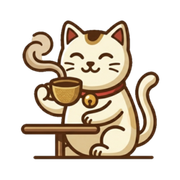
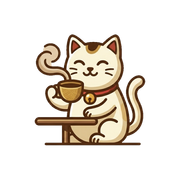
Fix layout

diff --git a/src/lib/components/DecryptForm.svelte b/src/lib/components/DecryptForm.svelte
@@ -75,23 +75,29 @@
         if (e.key === 'Enter') handleDecrypt();
       }}
     />
-  </div>
 
-  <button class="btn-primary" onclick={handleDecrypt} disabled={$clipState.loading || !password}>
-    {#if $clipState.loading}
-      <svg class="spinner" viewBox="0 0 24 24" fill="none" stroke="currentColor" stroke-width="2.5">
-        <circle cx="12" cy="12" r="10" stroke-dasharray="60" stroke-dashoffset="15" />
-      </svg>
-      Decrypting...
-    {:else}
-      Decrypt
-    {/if}
-  </button>
+    <button class="btn-primary" onclick={handleDecrypt} disabled={$clipState.loading || !password}>
+      {#if $clipState.loading}
+        <svg
+          class="spinner"
+          viewBox="0 0 24 24"
+          fill="none"
+          stroke="currentColor"
+          stroke-width="2.5"
+        >
+          <circle cx="12" cy="12" r="10" stroke-dasharray="60" stroke-dashoffset="15" />
+        </svg>
+        Decrypting...
+      {:else}
+        Decrypt
+      {/if}
+    </button>
+  </div>
 </div>
 
 <style>
   .card {
-    padding: var(--space-xl);
+    padding: var(--space-lg);
     text-align: center;
   }
 
@@ -99,7 +105,7 @@
     width: 32px;
     height: 32px;
     stroke: var(--accent);
-    margin-bottom: var(--space-md);
+    margin-bottom: var(--space-sm);
   }
 
   .error-banner {
@@ -109,9 +115,16 @@
 
   .form-group {
     padding: 0;
+    gap: var(--space-sm);
+    label {
+      margin: 0;
+    }
+  }
+
+  .input {
+    margin-bottom: var(--space-md);
   }
 
   .btn-primary {
-    width: 100%;
   }
 </style>

diff --git a/src/lib/components/IdleView.svelte b/src/lib/components/IdleView.svelte
@@ -69,7 +69,7 @@
     {/if}
     <div class="idle-actions">
       <div class="idle-keyboard">
-        <span>Or press <kbd>Ctrl+V</kbd> or <kbd>⌘+V</kbd> to copy from clipboard</span>
+        <span>Or press <kbd>Ctrl+V</kbd> or <kbd>⌘+V</kbd></span>
       </div>
       <button
         type="button"
@@ -107,14 +107,13 @@
     flex-direction: column;
     align-items: center;
     justify-content: center;
-    margin: 0 auto;
     text-align: center;
     cursor: pointer;
     transition: all 0.2s ease;
   }
 
   .idle-inner {
-    padding: var(--space-xl) var(--space-2xl) var(--space-2xl) var(--space-2xl);
+    padding: var(--space-xl) var(--space-2xl) var(--space-xl) var(--space-2xl);
     width: 100%;
   }
 

diff --git a/src/lib/components/ClipNotFound.svelte b/src/lib/components/ClipNotFound.svelte
@@ -51,6 +51,9 @@
     width: 100%;
     max-width: 480px;
     margin: 2rem auto;
+    display: flex;
+    flex-direction: column;
+    align-items: center;
   }
 
   .notfound-icon {
@@ -84,7 +87,6 @@
   }
 
   .btn-secondary {
-    padding: var(--space-sm) var(--space-lg);
     background: var(--bg-card);
   }
 </style>

diff --git a/src/routes/+layout.svelte b/src/routes/+layout.svelte
@@ -263,7 +263,7 @@
   }
 
   :global(.btn-secondary) {
-    padding: var(--space-md) var(--space-lg);
+    padding: var(--space-md);
     background: var(--bg-input);
     border: 1px solid var(--border-color);
     border-radius: var(--radius-md);
@@ -271,7 +271,7 @@
     font-size: 0.9rem;
     font-weight: 500;
     cursor: pointer;
-    display: inline-flex;
+    display: flex;
     align-items: center;
     justify-content: center;
     gap: var(--space-sm);

diff --git a/scripts/build-assets.js b/scripts/build-assets.js
@@ -15,7 +15,7 @@ const sizes = [
 	{ name: 'apple-touch-icon.png', size: 180 },
 ];
 
-const src = resolve(STATIC, 'kopicat.png');
+const src = resolve(__dirname, '..', 'kopicat.png');
 
 for (const { name, size } of sizes) {
 	await sharp(src)

diff --git a/src/app.html b/src/app.html
@@ -7,9 +7,9 @@
     <link rel="manifest" href="/manifest.json" />
     <link rel="icon" type="image/png" sizes="16x16" href="/favicon-16x16.png" />
     <link rel="icon" type="image/png" sizes="32x32" href="/favicon-32x32.png" />
+    <link rel="icon" type="image/png" sizes="128x128" href="/kopicat-128x128.png" />
     <link rel="icon" type="image/x-icon" href="/favicon.ico" />
     <link rel="apple-touch-icon" sizes="180x180" href="/apple-touch-icon.png" />
-    <link rel="icon" type="image/png" sizes="512x512" href="/favicon-512x512.png" />
     <meta name="mobile-web-app-capable" content="yes" />
     <meta name="apple-mobile-web-app-status-bar-style" content="black-translucent" />
     <meta name="apple-mobile-web-app-title" content="KopiCat" />

diff --git a/src/e2e/clip-flow.test.ts b/src/e2e/clip-flow.test.ts
@@ -49,7 +49,7 @@ describe('Clip creation flow', () => {
     expect(screen.getByRole('button', { name: 'Paste from clipboard' })).toBeInTheDocument();
     expect(screen.getByText(/paste your text to share/i)).toBeInTheDocument();
     expect(screen.getByText(/ctrl\+v/i)).toBeInTheDocument();
-    expect(screen.getByText(/copy from clipboard/i)).toBeInTheDocument();
+    expect(screen.getByText(/Paste from clipboard/i)).toBeInTheDocument();
   });
 
   it('transitions to create form after pasting', async () => {